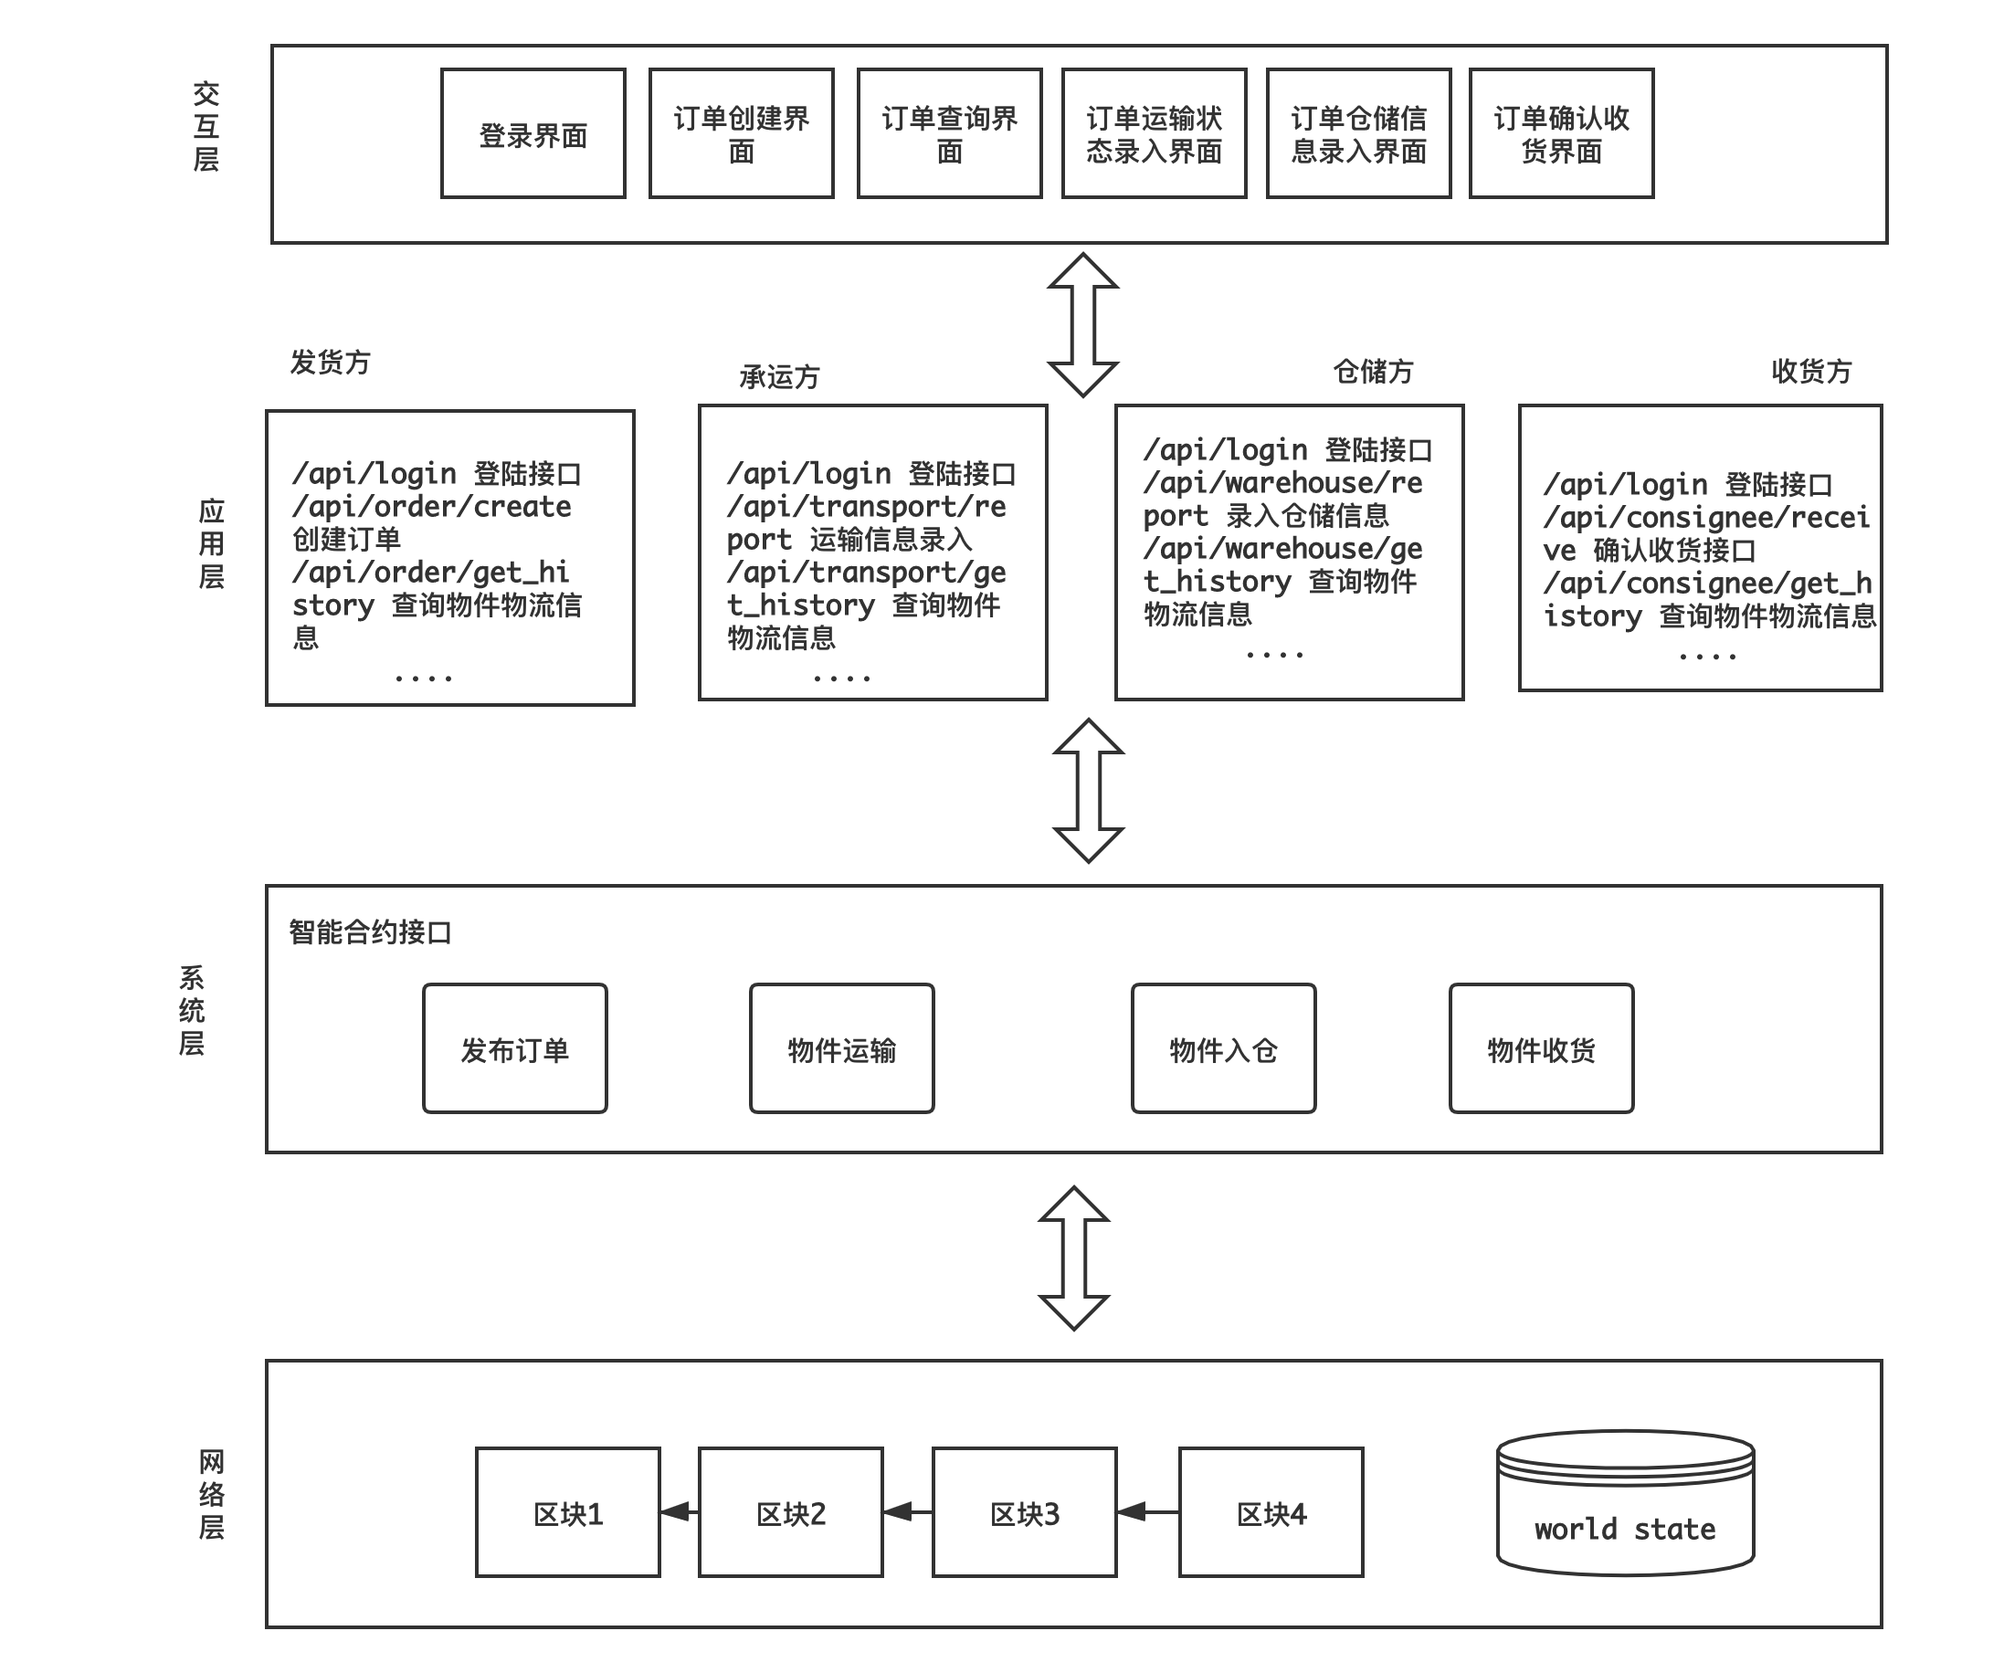
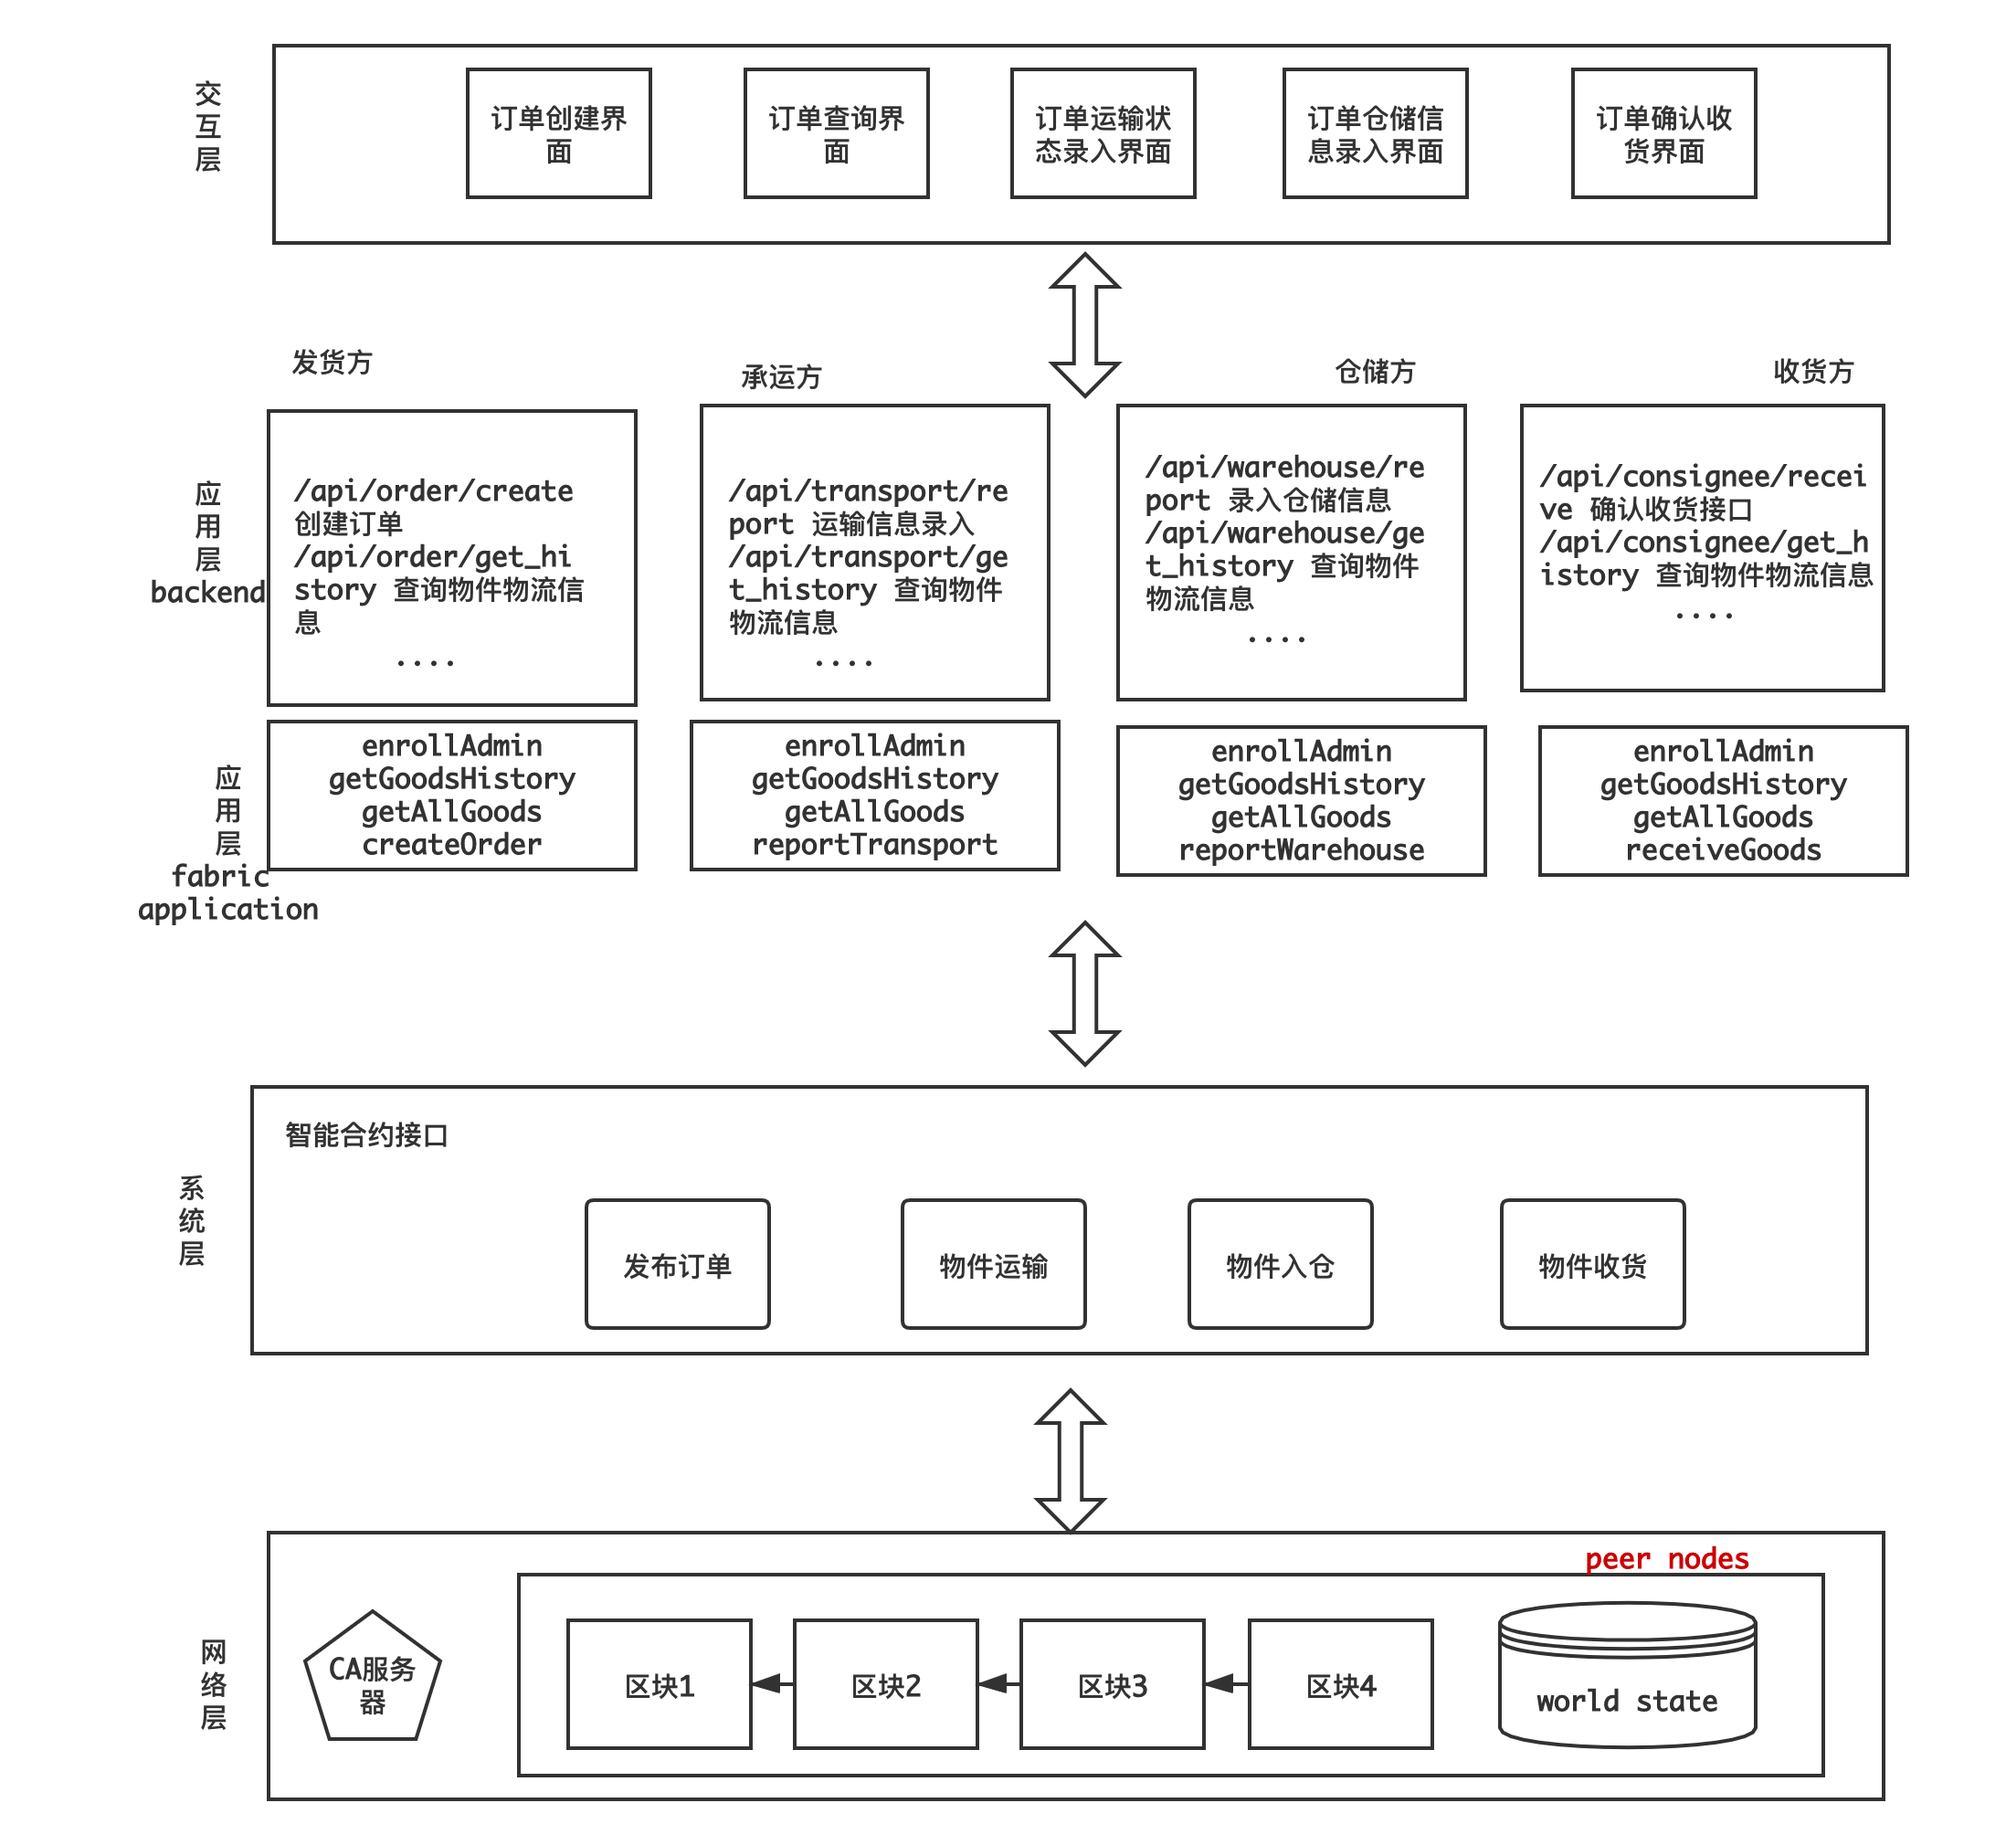
fix: update README

diff --git a/README.md b/README.md
@@ -3,6 +3,7 @@
 该项目是基于超级账本 hyperledger fabric（区块链3.0 联盟链框架）的分布式物流管理系统，作为本科毕业设计。
 
 ## 开发环境
+
 - OS: darwin x64
 - docker: Docker version 19.03.2
 - docker-compose: docker-compose version 1.24.1
@@ -12,9 +13,8 @@
 - nestjs: 6.14.2
 - hyperledger fabric: 2.0
   
-
-
 ## 系统架构
+
 该系统基于超级账本，利用区块链的去中心化、去信任化等特点，设计了物流管理系统，提供物件信息录入、查询、溯源等功能，参与组织有四个，分别为：
 
 - shipper，发货方，订单创建者，需要跟踪查询物件信息
@@ -22,10 +22,10 @@
 - warehouse，仓储方，负责物件仓储，物件可能不需要该方参与，负责录入每次仓储的详细信息
 - consignee，收货方，跟踪物件信息，物件收货后，在系统中确认收货，结束该物件的生命周期
 
-
-![](./images/arch.png)
+![系统架构图](./images/arch.png)
 
 ## 系统实现
+
 系统分层设计，包括：区块链网络搭建、chaincode层、fabric application、web后端和web前端。区块链网络由多个peer node和order node组成，采用etcdraft的方案来作为共识机制。node运行在docker container中，使用docker compose来管理。
 
 - chaincode: 根据官方文档，golang、java、node版本的chaincode api比较成熟，因为golang的静态类型、轻便选用golang来实现chaincode。
@@ -33,7 +33,7 @@
 - backend:  选用使用typescript的nestjs框架
 - frontend: 选用使用typescript的angular 9 框架
 
-## 运行 
+## 运行
 
 ```shell
 ./install-dependency.sh # 下载依赖，建议npm设置国内registry
@@ -47,10 +47,11 @@
 ```
 
 等待系统启动后，分别访问
+
 - `http://localhost:4200/`(shipper)
 - `http://localhost:4300/`(transporter)
 - `http://localhost:4400/`(warehouse)
-- `http://localhost:4500/`(consignee) 
+- `http://localhost:4500/`(consignee)
   
   来登陆各个organization的管理界面。
 

diff --git a/backend/warehouse/README.md b/backend/warehouse/README.md
@@ -1,24 +1,5 @@
 # 后端接口
 
-- POST /login 登陆接口
-```http request
-POST /login HTTP/1.1
-Host: localhost:3000
-Content-Type: application/json
-
-{
-	"username": "admin",
-	"password": "adminpw"
-}
-```
-
-```json
-{
-    "code": 200,
-    "message": "ok"
-}
-```
-
 - POST /api/warehouse/report 仓储数据上报接口
 ```http request
 POST /api/warehouse/report HTTP/1.1

diff --git a/backend/consignee/README.md b/backend/consignee/README.md
@@ -1,24 +1,5 @@
 # 后端接口
 
-- POST /login 登陆接口
-```http request
-POST /login HTTP/1.1
-Host: localhost:3000
-Content-Type: application/json
-
-{
-	"username": "admin",
-	"password": "adminpw"
-}
-```
-
-```json
-{
-    "code": 200,
-    "message": "ok"
-}
-```
-
 - POST /api/consignee/receive 确认收货接口
 ```http request
 POST /api/consignee/receive HTTP/1.1

diff --git a/backend/transporter/README.md b/backend/transporter/README.md
@@ -1,23 +1,6 @@
 # 后端接口
 
-- POST /login 登陆接口
-```http request
-POST /login HTTP/1.1
-Host: localhost:3000
-Content-Type: application/json
 
-{
-	"username": "admin",
-	"password": "adminpw"
-}
-```
-
-```json
-{
-    "code": 200,
-    "message": "ok"
-}
-```
 - POST /api/transport/report 上报运输信息
 ```http request
 POST /api/transport/report HTTP/1.1

diff --git a/backend/shipper/README.md b/backend/shipper/README.md
@@ -1,6 +1,5 @@
 # 后端接口
 
-- `POST /login`:        登陆
 - `POST /api/order/create`: 创建订单
 - `POST /api/order/get_info`:   查询当前订单状态
 - `POST /api/order/get_history`: 查询订单历史所有记录
